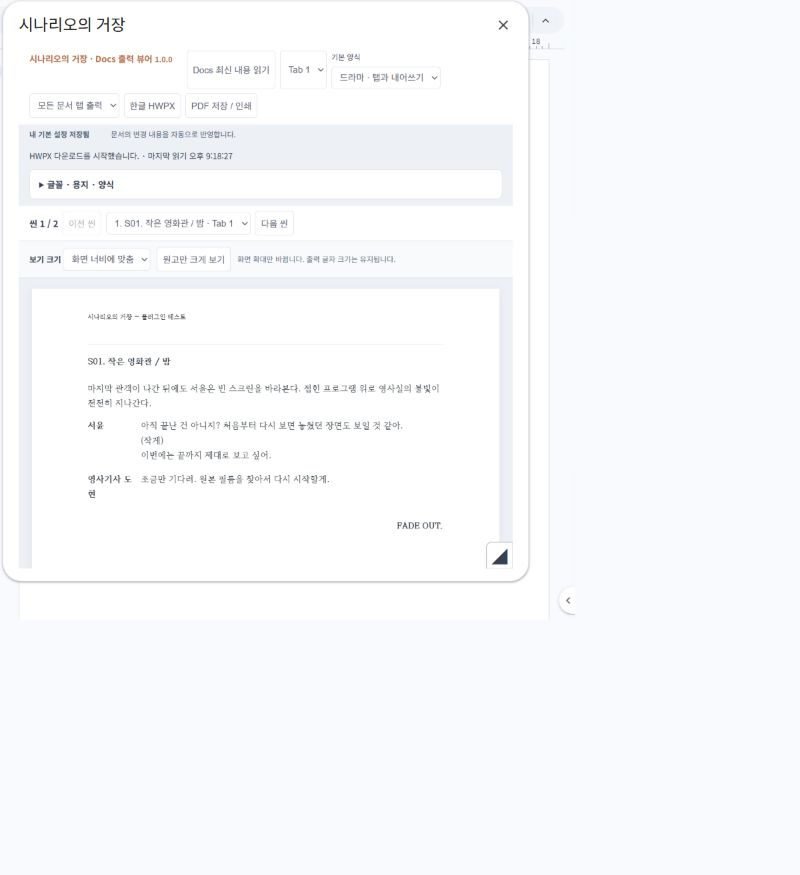
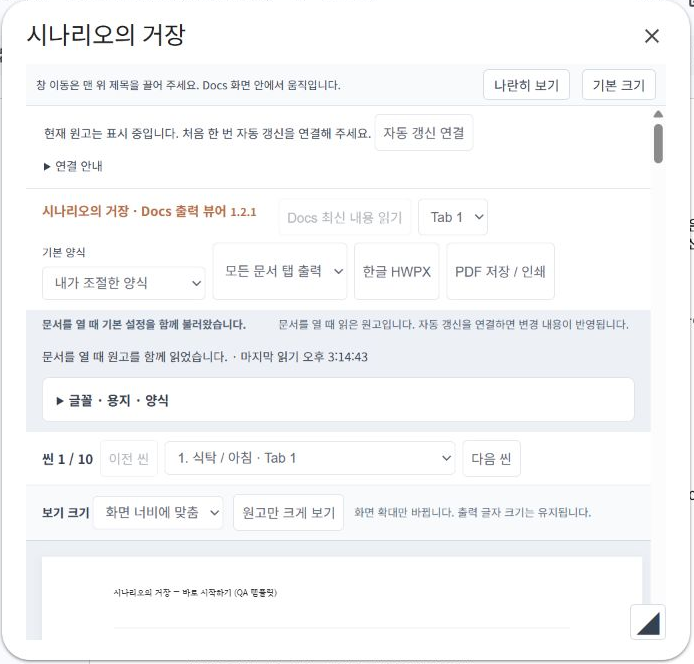
Update dollar syntax guide screenshots and release download

diff --git a/guide.html b/guide.html
@@ -11,10 +11,10 @@ $서윤
 $도현
 조금만 기다려. 처음부터 다시 시작할게.
 
-서윤이 접힌 프로그램을 조심스럽게 펼친다.</pre><p>최신 다운로드용 개발판에서 작품명이나 부 제목을 넣고 싶다면 <strong>##마지막 상영</strong>처럼 쓰세요. 씬 번호 없이 크고 굵은 제목으로 표시됩니다.</p><p>사진이나 장면 스케치는 Docs의 <strong>삽입 → 이미지</strong>로 넣으세요. ‘텍스트 줄 안’ 배치를 권장합니다. 굵게·기울임은 Docs의 해당 버튼으로 적용하세요.</p><a href="./syntax.html">다른 상황의 입력법도 살펴보기 →</a></div></div></section>
-<section class="step-guide" id="open"><span class="number">02 · 미리보기 열기</span><h2>지금 쓰는 원고를 바로 보세요.</h2><p>Google Docs에서 <strong>시나리오의 거장 → Docs 안에서 열기</strong>를 누르면 현재 원고가 바로 나타납니다. QA 템플릿에서는 도움말 옆에 메뉴가 있고, 설치 방식에 따라 확장 프로그램 안에 보일 수 있습니다.</p><figure><a class="capture menu" href="./images/guide-open.png" data-enlarge aria-label="Google Docs의 확장 프로그램에서 시나리오의 거장과 Docs 안에서 열기 메뉴를 연 화면 — 크게 보기"><img src="./images/guide-open.png" alt="Google Docs의 확장 프로그램에서 시나리오의 거장과 Docs 안에서 열기 메뉴를 연 화면" loading="lazy" width="1100" height="640"></a><figcaption>누를 곳: 상단 <strong>확장 프로그램</strong> → <strong>시나리오의 거장</strong> → 오른쪽 <strong>Docs 안에서 열기</strong>. <span>사진을 누르면 크게 볼 수 있습니다.</span></figcaption></figure><p>처음 열 때는 현재 문서·창 표시·계정 이메일 확인 권한을 사용합니다. 별도의 자동 갱신 연결은 Google Docs 읽기 권한을 요청합니다. 권한 자체는 계정의 모든 Docs를 읽을 수 있지만 앱은 지금 연 문서만 읽고 수정·삭제하지 않습니다. 연결 서버는 인증정보만 암호화하여 최대 30일 보관합니다. <a href="./privacy.html">개인정보 안내</a></p><p class="hint">미리보기는 Docs 안에 열립니다. 맨 위 제목을 끌어 창을 옮기고 오른쪽 아래 손잡이로 크기를 조절할 수 있습니다. 문서 옆에 두고 쓰기 편한 크기로 조절해 보세요.</p></section>
-<section class="step-guide"><div class="step-grid"><div><h2>쓴 원고가 대본으로 보입니다.</h2><p>뷰어가 열리면 미리보기를 확인하세요. 내용이 비어 있거나 방금 고친 부분이 안 보이면 위쪽의 <strong>현재 Docs 읽기</strong> 또는 <strong>Docs 최신 내용 읽기</strong>를 누릅니다.</p><p>문서 수정은 자동으로 확인합니다. 입력한 글자가 즉시 나타나지는 않을 수 있으니, 저장하기 전 최신 내용을 한 번 확인해 주세요.</p><ul><li><strong>씬 목록 / 이전 씬 / 다음 씬:</strong> 보고 싶은 장면으로 이동합니다.</li><li><strong>보기 크기:</strong> 화면에서 편하게 읽을 크기를 고릅니다.</li><li><strong>원고만 크게 보기:</strong> 설정을 접고 원고에 집중합니다.</li></ul><p class="hint">보기 크기는 화면 확대입니다. 저장할 파일의 글자 크기는 다음 단계의 <strong>글꼴 · 용지 · 양식</strong>에서 바꾸세요.</p></div><figure><a class="capture " href="./images/guide-preview.png" data-enlarge aria-label="원고가 가운데 인물명 양식으로 표시된 실제 미리보기 창 — 크게 보기"><img src="./images/guide-preview.png" alt="원고가 가운데 인물명 양식으로 표시된 실제 미리보기 창" loading="lazy" width="800" height="875"></a><figcaption>위쪽에서 최신 원고를 읽고, 가운데 씬 목록으로 이동하며, 아래에서 출력 모양을 확인합니다. <span>사진을 누르면 크게 볼 수 있습니다.</span></figcaption></figure></div></section>
-<section class="step-guide" id="format"><div class="step-grid"><div><span class="number">03 · 모양 고르기</span><h2>원고는 그대로.<br>제출할 모양만 바꾸세요.</h2><ol><li>뷰어 위쪽 <strong>기본 양식</strong>에서 탭형 또는 가운데 양식을 고릅니다.</li><li><strong>글꼴 · 용지 · 양식</strong>을 누르면 자세한 설정이 펼쳐집니다.</li><li>글꼴과 대사 배치를 먼저 고르세요. 더 세밀하게 바꾸려면 <strong>양식 전체 커스텀 · 용지부터 문단까지</strong>를 펼칩니다.</li><li>용지 크기, 여백, 글자 크기, 인물명·대사 위치를 조절하고 미리보기를 확인합니다. 값은 변경할 때 반영됩니다.</li></ol><p class="hint">처음에는 기본 양식으로 시작해도 충분합니다. 변경한 설정은 이 브라우저에 자동으로 저장되어 다음에도 같은 설정으로 시작할 수 있어요.</p><p>이 과정은 Docs 원문의 내용이나 모양을 덮어쓰지 않습니다. 동료는 같은 원고에서 자신의 출력 양식을 고를 수 있습니다.</p></div><figure><a class="capture " href="./images/guide-settings.png" data-enlarge aria-label="글꼴과 대사 배치 및 용지 크기 여백을 조절하는 실제 설정 화면 — 크게 보기"><img src="./images/guide-settings.png" alt="글꼴과 대사 배치 및 용지 크기 여백을 조절하는 실제 설정 화면" loading="lazy" width="800" height="875"></a><figcaption>위: <strong>글꼴 · 대사 배치</strong>. 아래: <strong>용지 크기와 여백</strong>. 모두 처음부터 바꿀 필요는 없습니다. <span>사진을 누르면 크게 볼 수 있습니다.</span></figcaption></figure></div></section>
-<section class="step-guide" id="save"><div class="step-grid"><div><span class="number">04 · 파일 저장</span><h2>한글 파일 또는 PDF로<br>건네세요.</h2><h3>한글에서 편집할 파일이 필요하다면</h3><p>위쪽 <strong>한글 HWPX</strong>를 누르세요. 내려받은 파일은 보통 컴퓨터의 ‘다운로드’ 폴더에 있습니다. 확장자는 <strong>.hwpx</strong>이며, 오래된 .hwp 형식과는 다릅니다.</p><h3>읽거나 인쇄할 파일이 필요하다면</h3><p><strong>PDF 저장 / 인쇄</strong>를 누른 뒤, 인쇄 창의 대상(프린터)을 <strong>PDF로 저장</strong>으로 고릅니다. 저장 위치와 파일 이름을 정하면 끝입니다.</p><p>PDF는 <strong>배율 100% · 여백 없음 · 머리글과 바닥글 끄기</strong>로 확인하세요. 기기마다 인쇄 창의 항목 이름은 조금 다를 수 있습니다.</p><p class="hint">보내기 전, 저장한 파일을 한 번 열어 보세요. 설치된 글꼴과 프로그램에 따라 줄바꿈과 쪽 수가 달라질 수 있습니다.</p></div><figure><a class="capture " href="./images/guide-export.png" data-enlarge aria-label="미리보기 위쪽에 한글 HWPX와 PDF 저장 인쇄 버튼이 표시된 화면 — 크게 보기"><img src="./images/guide-export.png" alt="미리보기 위쪽에 한글 HWPX와 PDF 저장 인쇄 버튼이 표시된 화면" loading="lazy" width="800" height="875"></a><figcaption>위쪽 <strong>한글 HWPX</strong> 또는 그 옆 <strong>PDF 저장 / 인쇄</strong>를 누르세요. 사진은 HWPX 다운로드를 시작한 화면입니다. <span>사진을 누르면 크게 볼 수 있습니다.</span></figcaption></figure></div></section>
+서윤이 접힌 프로그램을 조심스럽게 펼친다.</pre><figure><a class="capture" href="./images/guide-write.png" data-enlarge aria-label="달러 기호로 인물명을 적은 실제 Google Docs 원고 — 크게 보기"><img src="./images/guide-write.png" alt="실제 QA 문서의 $태수, $수연과 바로 다음 줄에 쓴 대사" width="700" height="555" loading="lazy"></a><figcaption>이름 앞에 <strong>$</strong>를 붙이고 Enter를 눌러 대사를 쓰세요. 지문으로 돌아갈 때는 한 줄을 비웁니다.</figcaption></figure><p>최신 다운로드용 개발판에서 작품명이나 부 제목을 넣고 싶다면 <strong>##마지막 상영</strong>처럼 쓰세요. 씬 번호 없이 크고 굵은 제목으로 표시됩니다.</p><p>사진이나 장면 스케치는 Docs의 <strong>삽입 → 이미지</strong>로 넣으세요. ‘텍스트 줄 안’ 배치를 권장합니다. 굵게·기울임은 Docs의 해당 버튼으로 적용하세요.</p><a href="./syntax.html">다른 상황의 입력법도 살펴보기 →</a></div></div></section>
+<section class="step-guide" id="open"><span class="number">02 · 미리보기 열기</span><h2>지금 쓰는 원고를 바로 보세요.</h2><p>Google Docs에서 <strong>시나리오의 거장 → Docs 안에서 열기</strong>를 누르면 현재 원고가 바로 나타납니다. QA 템플릿에서는 도움말 옆에 메뉴가 있고, 설치 방식에 따라 확장 프로그램 안에 보일 수 있습니다.</p><figure><a class="capture menu" href="./images/guide-open.png?v=dollar1" data-enlarge aria-label="QA 문서에서 도움말 옆 시나리오의 거장 메뉴와 Docs 안에서 열기를 연 화면 — 크게 보기"><img src="./images/guide-open.png?v=dollar1" alt="QA 문서에서 도움말 옆 시나리오의 거장 메뉴와 Docs 안에서 열기를 연 화면" loading="lazy" width="1000" height="710"></a><figcaption>누를 곳: 도움말 옆 <strong>시나리오의 거장</strong> → <strong>Docs 안에서 열기</strong>. 정식 부가기능으로 설치한 경우에는 <strong>확장 프로그램</strong> 안에서 찾으세요. <span>사진을 누르면 크게 볼 수 있습니다.</span></figcaption></figure><p>처음 열 때는 현재 문서·창 표시·계정 이메일 확인 권한을 사용합니다. 별도의 자동 갱신 연결은 Google Docs 읽기 권한을 요청합니다. 권한 자체는 계정의 모든 Docs를 읽을 수 있지만 앱은 지금 연 문서만 읽고 수정·삭제하지 않습니다. 연결 서버는 인증정보만 암호화하여 최대 30일 보관합니다. <a href="./privacy.html">개인정보 안내</a></p><p class="hint">미리보기는 Docs 안에 열립니다. 맨 위 제목을 끌어 창을 옮기고 오른쪽 아래 손잡이로 크기를 조절할 수 있습니다. 문서 옆에 두고 쓰기 편한 크기로 조절해 보세요.</p></section>
+<section class="step-guide"><div class="step-grid"><div><h2>쓴 원고가 대본으로 보입니다.</h2><p>뷰어가 열리면 미리보기를 확인하세요. 내용이 비어 있거나 방금 고친 부분이 안 보이면 <strong>자동 갱신 연결</strong> 상태를 확인한 뒤 <strong>Docs 최신 내용 읽기</strong>를 누릅니다.</p><p>문서 수정은 자동으로 확인합니다. 입력한 글자가 즉시 나타나지는 않을 수 있으니, 저장하기 전 최신 내용을 한 번 확인해 주세요.</p><ul><li><strong>씬 목록 / 이전 씬 / 다음 씬:</strong> 보고 싶은 장면으로 이동합니다.</li><li><strong>보기 크기:</strong> 화면에서 편하게 읽을 크기를 고릅니다.</li><li><strong>원고만 크게 보기:</strong> 설정을 접고 원고에 집중합니다.</li></ul><p class="hint">보기 크기는 화면 확대입니다. 저장할 파일의 글자 크기는 다음 단계의 <strong>글꼴 · 용지 · 양식</strong>에서 바꾸세요.</p></div><figure><a class="capture " href="./images/guide-preview.png?v=dollar1" data-enlarge aria-label="달러 기호로 쓴 원고가 인물명과 대사로 변환된 실제 미리보기 창 — 크게 보기"><img src="./images/guide-preview.png?v=dollar1" alt="달러 기호로 쓴 원고가 인물명과 대사로 변환된 실제 미리보기 창" loading="lazy" width="694" height="664"></a><figcaption><strong>원고만 크게 보기</strong>를 누른 화면입니다. 입력한 달러 기호는 출력에서 빠지고 인물명과 대사만 배치됩니다. <strong>설정 다시 보기</strong>로 돌아갈 수 있습니다. <span>사진을 누르면 크게 볼 수 있습니다.</span></figcaption></figure></div></section>
+<section class="step-guide" id="format"><div class="step-grid"><div><span class="number">03 · 모양 고르기</span><h2>원고는 그대로.<br>제출할 모양만 바꾸세요.</h2><ol><li>뷰어 위쪽 <strong>기본 양식</strong>에서 탭형 또는 가운데 양식을 고릅니다.</li><li><strong>글꼴 · 용지 · 양식</strong>을 누르면 자세한 설정이 펼쳐집니다.</li><li>글꼴과 대사 배치를 먼저 고르세요. 더 세밀하게 바꾸려면 <strong>양식 전체 커스텀 · 용지부터 문단까지</strong>를 펼칩니다.</li><li>용지 크기, 여백, 글자 크기, 인물명·대사 위치를 조절하고 미리보기를 확인합니다. 값은 변경할 때 반영됩니다.</li></ol><p class="hint">처음에는 기본 양식으로 시작해도 충분합니다. 변경한 설정은 이 브라우저에 자동으로 저장되어 다음에도 같은 설정으로 시작할 수 있어요.</p><p>이 과정은 Docs 원문의 내용이나 모양을 덮어쓰지 않습니다. 동료는 같은 원고에서 자신의 출력 양식을 고를 수 있습니다.</p></div><figure><a class="capture " href="./images/guide-settings.png?v=dollar1" data-enlarge aria-label="글꼴과 대사 배치 및 용지 크기 여백을 조절하는 실제 설정 화면 — 크게 보기"><img src="./images/guide-settings.png?v=dollar1" alt="글꼴과 대사 배치 및 용지 크기 여백을 조절하는 실제 설정 화면" loading="lazy" width="694" height="664"></a><figcaption>위에서 <strong>글꼴 · 대사 배치</strong>를 고르세요. 아래의 <strong>양식 전체 커스텀</strong>을 펼치면 용지 규격과 여백 등을 조절할 수 있습니다. <span>사진을 누르면 크게 볼 수 있습니다.</span></figcaption></figure></div></section>
+<section class="step-guide" id="save"><div class="step-grid"><div><span class="number">04 · 파일 저장</span><h2>한글 파일 또는 PDF로<br>건네세요.</h2><h3>한글에서 편집할 파일이 필요하다면</h3><p>위쪽 <strong>한글 HWPX</strong>를 누르세요. 내려받은 파일은 보통 컴퓨터의 ‘다운로드’ 폴더에 있습니다. 확장자는 <strong>.hwpx</strong>이며, 오래된 .hwp 형식과는 다릅니다.</p><h3>읽거나 인쇄할 파일이 필요하다면</h3><p><strong>PDF 저장 / 인쇄</strong>를 누른 뒤, 인쇄 창의 대상(프린터)을 <strong>PDF로 저장</strong>으로 고릅니다. 저장 위치와 파일 이름을 정하면 끝입니다.</p><p>PDF는 <strong>배율 100% · 여백 없음 · 머리글과 바닥글 끄기</strong>로 확인하세요. 기기마다 인쇄 창의 항목 이름은 조금 다를 수 있습니다.</p><p class="hint">보내기 전, 저장한 파일을 한 번 열어 보세요. 설치된 글꼴과 프로그램에 따라 줄바꿈과 쪽 수가 달라질 수 있습니다.</p></div><figure><a class="capture " href="./images/guide-export.png?v=dollar1" data-enlarge aria-label="미리보기 위쪽에 한글 HWPX와 PDF 저장 인쇄 버튼이 표시된 화면 — 크게 보기"><img src="./images/guide-export.png?v=dollar1" alt="미리보기 위쪽에 한글 HWPX와 PDF 저장 인쇄 버튼이 표시된 화면" loading="lazy" width="694" height="664"></a><figcaption>위쪽 <strong>한글 HWPX</strong> 또는 그 옆 <strong>PDF 저장 / 인쇄</strong>를 누르세요. 사진의 <strong>기본 양식</strong> 아래에서 두 저장 버튼을 찾을 수 있습니다. <span>사진을 누르면 크게 볼 수 있습니다.</span></figcaption></figure></div></section>
 <section class="step-guide"><h2>같이 쓰는 원고도, 그대로.</h2><p>공유와 댓글, 제안, 이전 원고로 돌아가기는 Google Docs에서 사용하세요. 중요한 수정 전에는 <strong>파일 → 버전 기록 → 현재 버전 이름 지정</strong>으로 ‘초고’, ‘회의 후 수정’처럼 이름을 붙여 두면 찾기 쉽습니다.</p><a href="./#collaboration">공동 작업과 버전 기록 팁 →</a></section>
 <section class="step-guide"><h2>여기서 막혔나요?</h2><details><summary>메뉴가 안 보여요.</summary><p>문서를 새로고침하고, 설치한 Google 계정으로 열었는지 확인하세요. 현재 스토어는 심사 중이므로 처음 방문한 분에게 메뉴가 저절로 생기지는 않습니다. QA 템플릿을 복사하거나 개발판 설치 안내를 확인하세요.</p></details><details><summary>대사와 지문이 섞여 보여요.</summary><p>이름 앞의 $를 확인하세요. 대사 뒤에 지문을 쓸 때는 한 줄을 비우세요. 빈 줄 뒤에도 같은 인물이 말한다면 $이름을 다시 적습니다.</p></details><details><summary>원고를 고쳤는데 아직 예전 내용이에요.</summary><p>Docs의 저장이 끝났는지, 뷰어 맨 위에 ‘자동 갱신 연결됨’이 보이는지 확인하세요. 처음 연결하지 않았거나 만료된 경우 ‘자동 갱신 연결’을 누릅니다. 글은 자동 반영됩니다. 이미지 변경은 창을 닫고 다시 열어 주세요.</p></details><details><summary>파일이 어디에 저장됐는지 모르겠어요.</summary><p>브라우저 오른쪽 위의 다운로드 목록 또는 컴퓨터의 다운로드 폴더를 확인하세요. PDF는 인쇄 창에서 ‘PDF로 저장’을 선택한 뒤 저장 버튼까지 눌러야 파일이 만들어집니다.</p></details><p>해결되지 않으면 <a href="./support.html">도움말 · 문의</a>로 알려 주세요. 원고 내용과 계정 정보는 가리고, 오류 문구와 막힌 단계만 보내셔도 됩니다.</p></section><p class="note">사진은 가상의 예제 원고로 촬영한 실제 테스트 화면입니다. 계정 정보·개인 문서·브라우저 주소는 포함하지 않았습니다. 화면 속 예제는 입력 규칙을 모두 보여주기 위한 것이 아니며, 새 원고는 위의 짧은 예시로 시작하세요. 배포 버전에 따라 버튼 이름과 배치가 조금 달라질 수 있습니다.</p></main><footer><a href="./">제품 소개</a><a href="./syntax.html">상세 문법</a><a href="./install.html">개발판 설치</a><a href="./privacy.html">개인정보처리방침</a><a href="./creators.html">제작자</a></footer><dialog id="picture"><button type="button" autofocus>닫기 ✕</button><div id="picture-content"></div></dialog><script src="./guide.js" defer></script><script defer src="./site-runtime.js"></script></body></html>

diff --git a/install.html b/install.html
@@ -2,9 +2,9 @@
 </head><body>
 <header class="site-header"><a class="brand" href="./"><svg width="24" height="24" viewBox="0 0 24 24" fill="none" stroke="currentColor" stroke-width="1.7" aria-hidden="true"><path d="m4 20 6-6m-3 3 1-7 8-7 5 5-7 8-7 1Z"/><path d="m10 14 7-7"/></svg>시나리오의 거장</a><nav aria-label="주요 메뉴"><a href="./">제품 소개</a><a href="./guide.html">사진으로 보는 사용법</a><a href="./syntax.html">상세 문법</a><a href="./creators.html">제작자</a><a href="./install.html" aria-current="page">다운로드 · QA</a></nav></header><main><div class="note"><strong>사용 방법부터 보고 싶으신가요?</strong><p>원고를 쓰고 파일로 저장하는 순서는 <a href="./guide.html">사진으로 보는 사용법</a>에서 친절하게 안내합니다. 설치된 Docs 문서의 메뉴에서 현재 원고를 바로 열 수 있습니다. 처음 사용하는 테스트 참여자는 아래 개발판 설치 안내를 확인하세요. 정식 스토어 배포는 현재 심사 중입니다.</p></div>
 <p class="tag">GOOGLE DOCS · 개발판</p><h1>함께 쓰던 원고를,<br>원하는 대본 양식으로.</h1><section style="margin:24px 0;padding:24px;border:1px solid #d7b9a8;border-radius:14px;background:#fff8f3"><h2>쓰던 문서에서 바로 열기 · 1.2.1</h2><p><strong>시나리오의 거장 → Docs 안에서 열기</strong>를 누르면 현재 원고가 바로 보입니다. 처음 한 번 <strong>자동 갱신 연결</strong>에서 지금 Docs를 쓰는 Google 계정을 승인하세요. 파일을 다시 고르지 않습니다.</p><p>글의 추가·수정·삭제는 자동 반영되며, 창을 다시 열어도 연결을 최대 30일 유지합니다. 여러 계정이 로그인된 Chrome에서도 시험했습니다. <strong>이미지는 창을 열 때의 모습으로 출력됩니다.</strong> 이미지를 추가·교체한 뒤에는 창을 닫고 다시 열어 주세요. 원고와 이미지를 연결 서버에 보내지 않습니다.</p><p>Google Marketplace 정식 승인은 아직 완료되지 않았습니다. QA 참여자는 공유받은 테스트 문서의 사본으로 시작하세요.</p></section><p class="intro">Google Docs의 공동 편집은 그대로 사용합니다. 부가기능에서 원고를 읽고, 용지와 양식을 조절한 다음 HWPX 또는 PDF로 내보냅니다.</p>
-<div class="note warning"><strong>1.2.0 · 현재 원고 바로 열기</strong><br>이미 설치한 분은 Docs 메뉴에서 바로 시작하세요. 아래 ZIP은 테스트 참여자의 설치·업데이트용입니다. Marketplace 정식 설치는 심사 승인 후 제공합니다.</div>
+<div class="note warning"><strong>1.2.1 · 현재 원고 바로 열기</strong><br>이미 설치한 분은 Docs 메뉴에서 바로 시작하세요. 아래 ZIP은 테스트 참여자의 설치·업데이트용입니다. Marketplace 정식 설치는 심사 승인 후 제공합니다.</div>
 <a class="button" href="./google-docs-addon.zip" download>개발판 ZIP 다운로드 ↓</a><small>설치 파일 3개와 설명서·문법 안내·라이선스가 들어 있습니다. ZIP 파일 자체가 설치되지는 않습니다.</small>
-<p><a href="./qa.html">QA 체크리스트와 결과 기록 →</a> · <a href="./example-screenplay.txt" download>다섯 장면 예시 원고 다운로드</a></p><section><h2>이동하고 크기를 조절하는 큰 원고 화면</h2><p>큰 뷰어는 화면 너비에 맞춰 원고를 보여줍니다. 최대 200% 확대하거나 <strong>원고만 크게 보기</strong>로 설정을 숨길 수 있습니다. <strong>글꼴 · 용지 · 양식</strong>를 펼치면 모든 설정이 나옵니다. 화면 확대는 출력 글자 크기에 영향을 주지 않습니다.</p><p>미리보기는 Docs 안에서 열립니다. 제목을 끌어 이동하고 오른쪽 아래 손잡이로 크기를 조절합니다. Google Docs 화면의 경계에서는 이동이 제한됩니다. 좁은 오른쪽 뷰어는 제거했습니다.</p><p>뷰어를 열면 자동 갱신이 시작됩니다. 약 4초 간격으로 전체 문서를 확인하고, 변경이 있을 때 미리보기를 다시 계산합니다. 글자 단위 실시간 반영은 아닙니다. 숨겨진 창에서는 갱신을 멈춥니다. 연결이 잠시 실패하면 자동으로 재시도합니다. 권한 거부가 발생하면 자동 갱신을 중단하고 마지막 원고임을 표시합니다. 1.2.0은 처음 승인한 Google 연결로 현재 원고를 자동 갱신합니다. 뷰어 위의 연결 상태를 확인하세요. <a href="./support.html#connection">연결 오류 해결 방법</a></p><p>적용한 글꼴·양식 설정은 이 브라우저에 저장됩니다. 창을 다시 열어도 같은 브라우저에서는 설정을 불러옵니다. 현재 원고는 창을 열 때마다 바로 읽습니다.</p></section><section><details><summary>개발판 설치하기 · QA용</summary><p>위 연결 버튼만으로 사용할 수 있으며, 이 단계는 필요하지 않습니다. Docs 문서에 실행 메뉴를 직접 추가하려는 경우에만 아래 설치를 진행하세요. 컴퓨터에서 아래 순서대로 진행하세요. Windows는 Ctrl, Mac은 ⌘(Command) 키를 사용합니다. <strong>문서 제목과 프로젝트 이름은 원하는 이름을 써도 됩니다.</strong></p>
+<p><a href="./qa.html">QA 체크리스트와 결과 기록 →</a> · <a href="./example-screenplay.txt" download>다섯 장면 예시 원고 다운로드</a></p><section><h2>이동하고 크기를 조절하는 큰 원고 화면</h2><p>큰 뷰어는 화면 너비에 맞춰 원고를 보여줍니다. 최대 200% 확대하거나 <strong>원고만 크게 보기</strong>로 설정을 숨길 수 있습니다. <strong>글꼴 · 용지 · 양식</strong>를 펼치면 모든 설정이 나옵니다. 화면 확대는 출력 글자 크기에 영향을 주지 않습니다.</p><p>미리보기는 Docs 안에서 열립니다. 제목을 끌어 이동하고 오른쪽 아래 손잡이로 크기를 조절합니다. Google Docs 화면의 경계에서는 이동이 제한됩니다. 좁은 오른쪽 뷰어는 제거했습니다.</p><p>뷰어를 열면 자동 갱신이 시작됩니다. 약 4초 간격으로 전체 문서를 확인하고, 변경이 있을 때 미리보기를 다시 계산합니다. 글자 단위 실시간 반영은 아닙니다. 숨겨진 창에서는 갱신을 멈춥니다. 연결이 잠시 실패하면 자동으로 재시도합니다. 권한 거부가 발생하면 자동 갱신을 중단하고 마지막 원고임을 표시합니다. 1.2.1은 처음 승인한 Google 연결로 현재 원고를 자동 갱신합니다. 뷰어 위의 연결 상태를 확인하세요. <a href="./support.html#connection">연결 오류 해결 방법</a></p><p>적용한 글꼴·양식 설정은 이 브라우저에 저장됩니다. 창을 다시 열어도 같은 브라우저에서는 설정을 불러옵니다. 현재 원고는 창을 열 때마다 바로 읽습니다.</p></section><section><details><summary>개발판 설치하기 · QA용</summary><p>위 연결 버튼만으로 사용할 수 있으며, 이 단계는 필요하지 않습니다. Docs 문서에 실행 메뉴를 직접 추가하려는 경우에만 아래 설치를 진행하세요. 컴퓨터에서 아래 순서대로 진행하세요. Windows는 Ctrl, Mac은 ⌘(Command) 키를 사용합니다. <strong>문서 제목과 프로젝트 이름은 원하는 이름을 써도 됩니다.</strong></p>
 <details open><summary>1. 내려받은 파일의 압축 풀기</summary><p>위의 <strong>개발판 ZIP 다운로드</strong>를 누릅니다. 내려받은 파일을 마우스 오른쪽 버튼으로 누르고 <strong>모두 압축 풀기</strong>를 선택합니다.</p><p>앞으로 사용할 파일은 <strong>Code.gs / Viewer.html / appsscript.json</strong>, 세 개입니다. 내용을 바꿔 적을 필요는 없습니다.</p></details>
 <details><summary>2. 원고 문서에서 설치 화면 열기</summary><p>Google Docs에서 사용할 문서를 엽니다. 위쪽 메뉴에서 <strong>확장 프로그램 → Apps Script</strong>를 누릅니다. 새 탭이 열립니다.</p><p>위쪽에 ‘제목 없는 프로젝트’라고 나와도 괜찮습니다. 이름은 그대로 두어도 되고, 알아보기 편한 이름으로 바꿔도 됩니다.</p></details>
 <details open><summary>3. Apps Script의 Code.gs에 붙여넣기</summary><div class="note warning"><strong>붙여넣는 곳은 새로 열린 Apps Script 탭입니다.</strong><br>주소에 <strong>script.google.com</strong>이 보이고, 왼쪽에 <strong>파일 → Code.gs</strong>, 오른쪽에 <strong>줄 번호가 있는 글자 영역</strong>이 있어야 합니다. Google Docs의 하얀 원고 종이에는 설치 파일을 붙여넣지 않습니다.</div><p><strong>화면 찾기:</strong> 원고 문서 탭 → 확장 프로그램 → Apps Script → 새 탭의 Code.gs → 오른쪽 글자 영역</p><p>압축을 푼 폴더의 <strong>Code.gs</strong>를 마우스 오른쪽 버튼으로 눌러 <strong>연결 프로그램 → 메모장</strong>으로 엽니다. <strong>Ctrl+A → Ctrl+C</strong>로 전체 내용을 복사합니다.</p><p>Apps Script 탭으로 돌아와 왼쪽 <strong>Code.gs</strong>를 누릅니다. 오른쪽 글자 영역을 클릭하고 <strong>Ctrl+A → Ctrl+V</strong>로 전체 내용을 교체합니다.</p><figure><a href="./images/install-code-editor.png" target="_blank" rel="noopener"><img src="./images/install-code-editor.png" alt="Apps Script 왼쪽 Code.gs가 선택되고 오른쪽 줄 번호 옆에 코드가 표시된 실제 화면" loading="lazy"></a><figcaption>① 왼쪽 <strong>Code.gs</strong> 선택 → ② 오른쪽 <strong>줄 번호 옆 글자 영역</strong> 클릭 → ③ Ctrl+A, Ctrl+V. 사진은 붙여넣기를 마친 화면입니다 · 그림을 누르면 크게 볼 수 있습니다.</figcaption></figure><div class="note warning"><strong>처음 있던 myFunction 코드는 통째로 교체하세요.</strong><p>기본으로 보이는 <code>function myFunction() { }</code>의 중괄호 안에 붙여넣으면 작동하지 않습니다. 오른쪽 글자 영역을 클릭한 뒤 <strong>Ctrl+A → Ctrl+V</strong>로 기존 글자와 중괄호까지 전부 교체하세요. 저장한 뒤 파일 맨 위에서 <code>function onOpen(e)</code>을 찾을 수 있어야 합니다.</p><p>위쪽 실행 함수에 <strong>myFunction만 보인다면</strong> 전체 교체가 되었는지 다시 확인하세요. 이 단계에서는 위쪽 <strong>실행·배포 버튼을 누를 필요가 없습니다.</strong> 나머지 파일까지 넣고 6번에서 원고 문서로 돌아갑니다.</p></div><p><strong>확인:</strong> 오른쪽 줄 번호 옆에 메모장에서 복사한 긴 내용이 나타나면 성공입니다. Ctrl+S로 저장하고 4번으로 넘어가세요.</p><details><summary>붙여넣어도 아무것도 안 보여요</summary><ol><li>메모장 안의 글자를 클릭하고 Ctrl+A로 전체가 선택되는지 확인한 뒤 Ctrl+C를 누르세요.</li><li>브라우저의 Apps Script 탭에서 왼쪽 Code.gs를 선택하세요. 오른쪽에 이미 적힌 글자 사이를 눌러 커서를 놓으세요.</li><li>Ctrl+A 다음 Ctrl+V를 누르세요. 브라우저 주소창이나 왼쪽 파일 이름 칸에 붙여넣고 있지 않은지 확인하세요.</li></ol><p>그래도 안 되면 <strong>붙여넣으려는 화면 전체와 오류 문구</strong>를 캡처해 개발자에게 보내 주세요. 원고 내용과 계정 정보는 가려도 됩니다.</p></details></details>

diff --git a/guide.css b/guide.css
@@ -1,1 +1,1 @@
-*{box-sizing:border-box}html{scroll-behavior:smooth}body{margin:0;background:#fafbfc;color:#172437;font:17px/1.85 system-ui,"Malgun Gothic",sans-serif;word-break:keep-all}a{color:#a34d2b;text-underline-offset:4px}main{max-width:1120px;margin:auto;padding:32px 28px 80px}h1{font-size:clamp(36px,5vw,58px);line-height:1.25;letter-spacing:-2px;margin:16px 0 24px}h2{font-size:30px;line-height:1.4;margin:8px 0 20px}h3{font-size:20px}.lead{max-width:740px;color:#526074;font-size:20px}.tag,.number{color:#a34d2b;font-weight:750}.note{padding:20px 24px;background:#edf1f5;border-radius:10px}.steps{display:flex;gap:12px;flex-wrap:wrap;padding:24px 0}.steps a,.button{border:1px solid #cdd6df;border-radius:6px;padding:10px 16px;text-decoration:none;background:white}.step-guide{scroll-margin-top:20px;padding:52px 0;border-bottom:1px solid #dce2e8}.step-grid{display:grid;grid-template-columns:1fr 1.15fr;gap:40px;align-items:start}.step-grid>div{min-width:0}li{margin:10px 0}figure{margin:0;background:white;border:1px solid #dce2e8;border-radius:12px;overflow:hidden}figcaption{padding:16px 20px;font-size:15px;color:#526074}.capture{display:block;position:relative;overflow:hidden;aspect-ratio:530/584;background:#f8fafc}.capture img{display:block;width:150.944%;max-width:none;height:auto}.capture.menu{aspect-ratio:720/150}.capture.menu img{width:152.778%}.capture:hover{outline:3px solid #d45e35;outline-offset:-3px}.hint{border-left:3px solid #d45e35;padding-left:18px}pre{white-space:pre-wrap;font:17px/1.9 "Malgun Gothic",sans-serif;background:white;border:1px solid #cdd6df;padding:24px;border-radius:8px}code{background:#edf1f5;padding:2px 5px}details{border-bottom:1px solid #dce2e8;padding:20px 0}summary{cursor:pointer;font-weight:700}footer{max-width:1120px;margin:auto;padding:30px;display:flex;flex-wrap:wrap;gap:22px;font-size:14px}dialog{max-width:95vw;max-height:95vh;border:0;border-radius:12px;padding:18px}dialog::backdrop{background:#101a2dcc}dialog button{display:block;margin:0 0 12px auto;padding:10px 20px;font:inherit;cursor:pointer}dialog .capture{width:min(720px,80vw)}dialog .menu{width:min(1050px,85vw)}a:focus-visible,button:focus-visible,summary:focus-visible{outline:3px solid #d45e35;outline-offset:4px}@media(max-width:760px){main{padding:20px 22px 50px}.step-grid{grid-template-columns:1fr;gap:24px}h2{font-size:26px}.step-guide{padding:36px 0}.lead{font-size:18px}}@media(prefers-reduced-motion:reduce){html{scroll-behavior:auto}}
+*{box-sizing:border-box}html{scroll-behavior:smooth}body{margin:0;background:#fafbfc;color:#172437;font:17px/1.85 system-ui,"Malgun Gothic",sans-serif;word-break:keep-all}a{color:#a34d2b;text-underline-offset:4px}main{max-width:1120px;margin:auto;padding:32px 28px 80px}h1{font-size:clamp(36px,5vw,58px);line-height:1.25;letter-spacing:-2px;margin:16px 0 24px}h2{font-size:30px;line-height:1.4;margin:8px 0 20px}h3{font-size:20px}.lead{max-width:740px;color:#526074;font-size:20px}.tag,.number{color:#a34d2b;font-weight:750}.note{padding:20px 24px;background:#edf1f5;border-radius:10px}.steps{display:flex;gap:12px;flex-wrap:wrap;padding:24px 0}.steps a,.button{border:1px solid #cdd6df;border-radius:6px;padding:10px 16px;text-decoration:none;background:white}.step-guide{scroll-margin-top:20px;padding:52px 0;border-bottom:1px solid #dce2e8}.step-grid{display:grid;grid-template-columns:1fr 1.15fr;gap:40px;align-items:start}.step-grid>div{min-width:0}li{margin:10px 0}figure{margin:0;background:white;border:1px solid #dce2e8;border-radius:12px;overflow:hidden}figcaption{padding:16px 20px;font-size:15px;color:#526074}.capture{display:block;position:relative;overflow:hidden;aspect-ratio:auto;background:#f8fafc}.capture img{display:block;width:100%;max-width:none;height:auto}.capture.menu{aspect-ratio:auto}.capture.menu img{width:100%}.capture:hover{outline:3px solid #d45e35;outline-offset:-3px}.hint{border-left:3px solid #d45e35;padding-left:18px}pre{white-space:pre-wrap;font:17px/1.9 "Malgun Gothic",sans-serif;background:white;border:1px solid #cdd6df;padding:24px;border-radius:8px}code{background:#edf1f5;padding:2px 5px}details{border-bottom:1px solid #dce2e8;padding:20px 0}summary{cursor:pointer;font-weight:700}footer{max-width:1120px;margin:auto;padding:30px;display:flex;flex-wrap:wrap;gap:22px;font-size:14px}dialog{max-width:95vw;max-height:95vh;border:0;border-radius:12px;padding:18px}dialog::backdrop{background:#101a2dcc}dialog button{display:block;margin:0 0 12px auto;padding:10px 20px;font:inherit;cursor:pointer}dialog .capture{width:min(720px,80vw)}dialog .menu{width:min(1050px,85vw)}a:focus-visible,button:focus-visible,summary:focus-visible{outline:3px solid #d45e35;outline-offset:4px}@media(max-width:760px){main{padding:20px 22px 50px}.step-grid{grid-template-columns:1fr;gap:24px}h2{font-size:26px}.step-guide{padding:36px 0}.lead{font-size:18px}}@media(prefers-reduced-motion:reduce){html{scroll-behavior:auto}}
